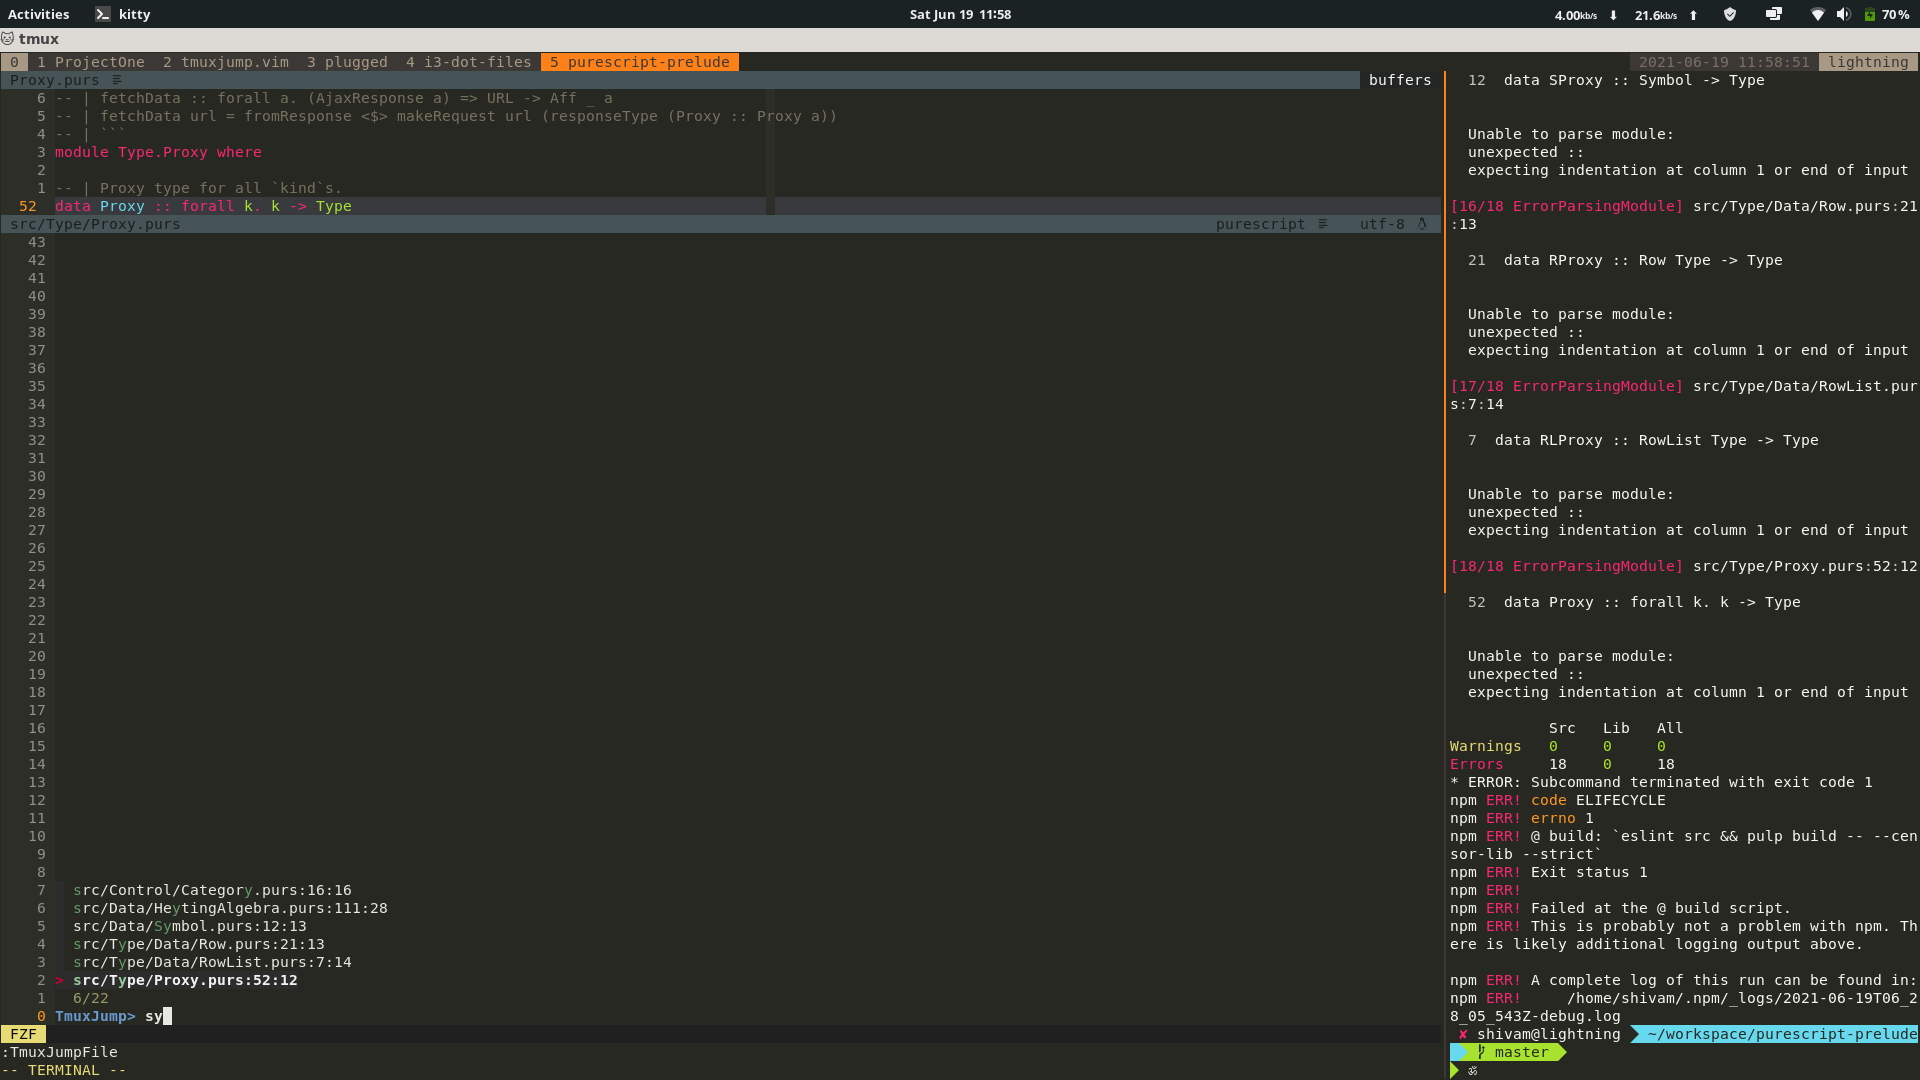
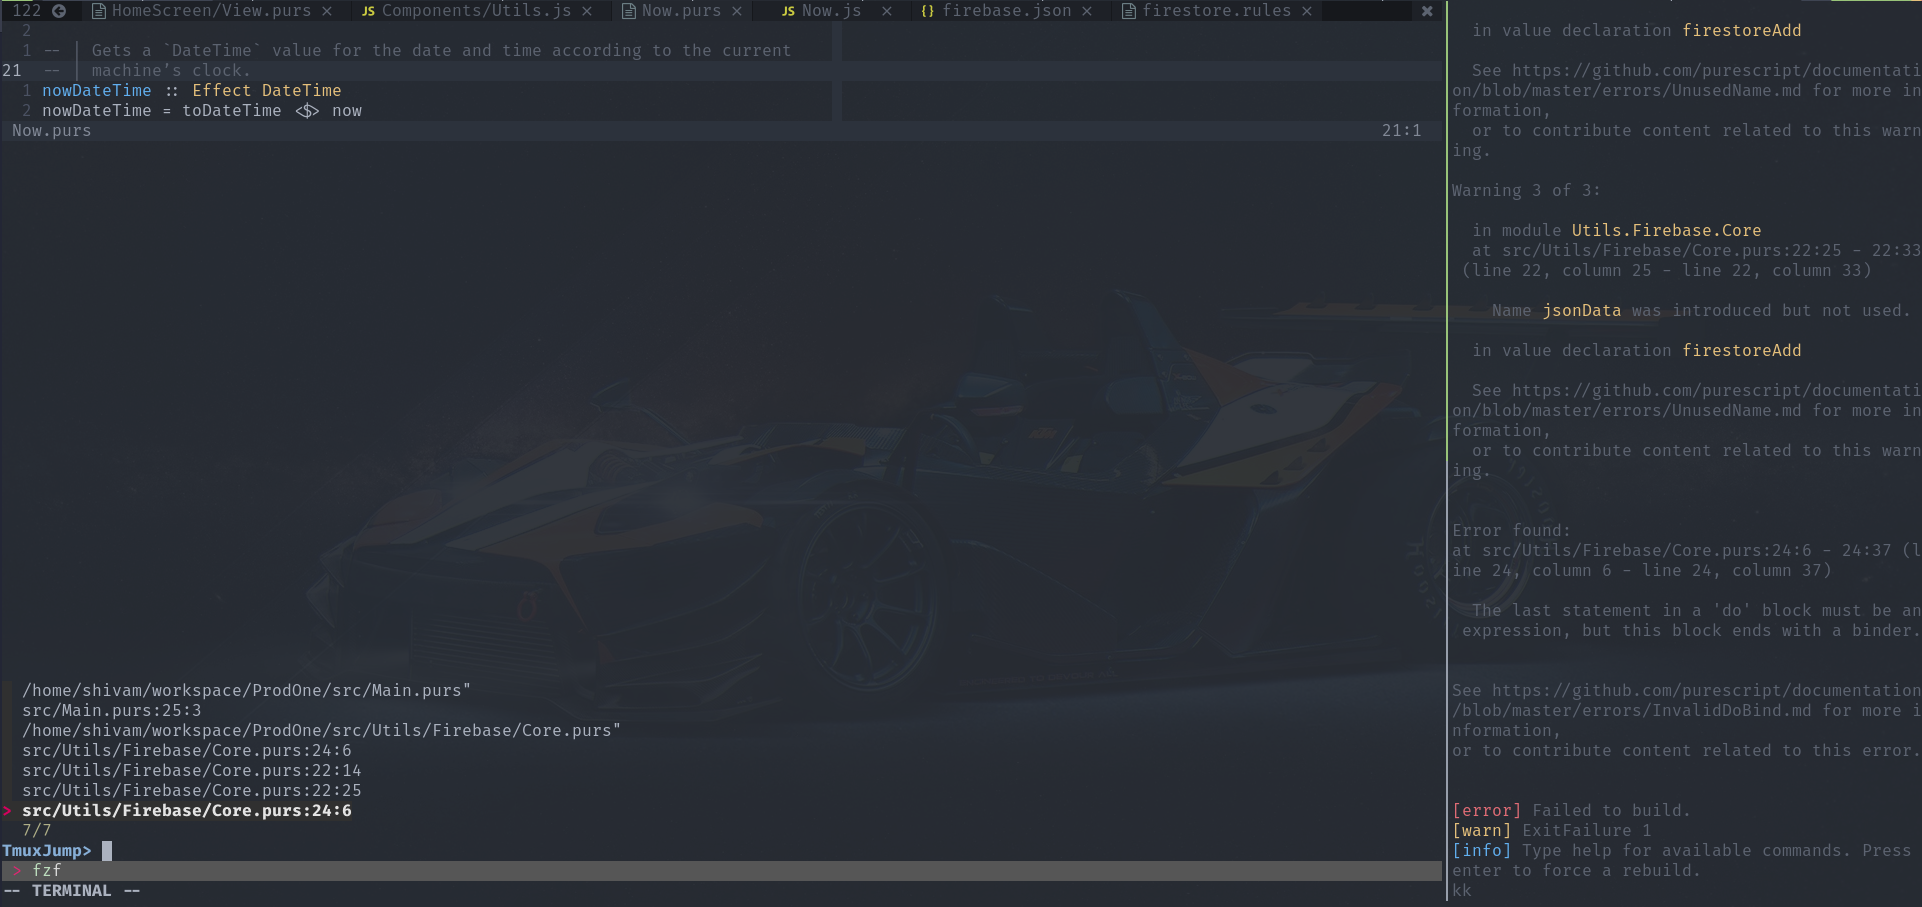
Added Telescope support
* Updated README

diff --git a/README.md b/README.md
@@ -12,7 +12,14 @@ greps all the file path printed on sibling panes and populates them in fzf
 window. And then I can decide and jump to that location easily without moving 
 out of nvim.
 
-[![TmuxJump](./assets/tmuxjump-vim.png)](https://youtu.be/Wo1E1z257GA)
+### With Fzf.vim
+![TmuxJump](./assets/tmuxjump-vim.png)
+
+### With Telescope.nvim
+![TmuxJump](./assets/tmuxjump_telescope.png)
+
+
+[Demo video](https://www.youtube.com/watch?v=Wo1E1z257GA)
 
 ## Install
 
@@ -21,6 +28,7 @@ out of nvim.
 This plugin is dependent on following
 - [Fzf.vim](https://github.com/junegunn/fzf.vim)
 - [tmux](https://github.com/tmux/tmux/wiki)
+- (Optional) [Telescope.nvim](https://github.com/nvim-telescope/telescope.nvim) 
 
 ### Installation
 
@@ -41,7 +49,7 @@ Using [neobundle](https://github.com/Shougo/neobundle.vim):
 With [pathogen.vim](https://github.com/tpope/vim-pathogen), just clone this repository inside `~/.vim/bundle`:
 
 
-### Configuration
+## Configuration
 
 Plugin exposes two commands `TmuxJumpFile` & `TmuxJumpFirst` 
 
@@ -62,5 +70,12 @@ in purescript buffer, it'll only look for paths which contain `purs` string
   ```
   autocmd FileType purescript nnoremap <leader>ft :TmuxJumpFile purs<CR>
   autocmd FileType purescript nnoremap <leader>; :TmuxJumpFirst purs<CR>
+  ```
+
+Plugin by default uses fzf for listing files in window. However it supports Telescope.nvim
+too, which can be enabled by setting below variable in vimrc
+
+  ```
+  let g:tmuxjump_telescope = v:true
   ```
 
